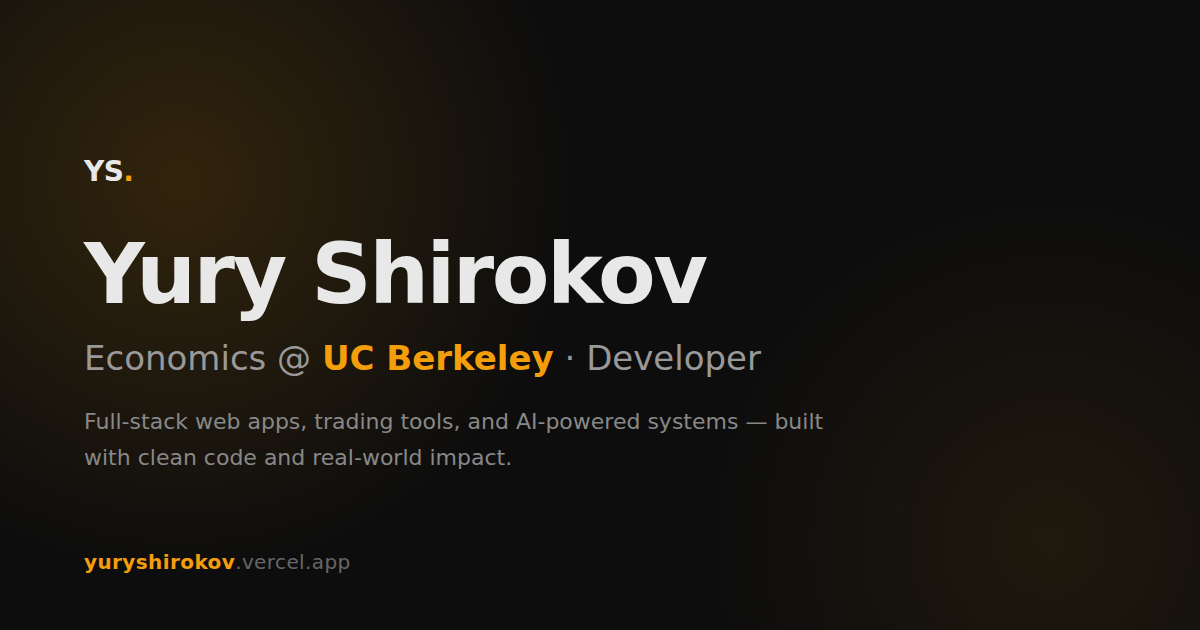
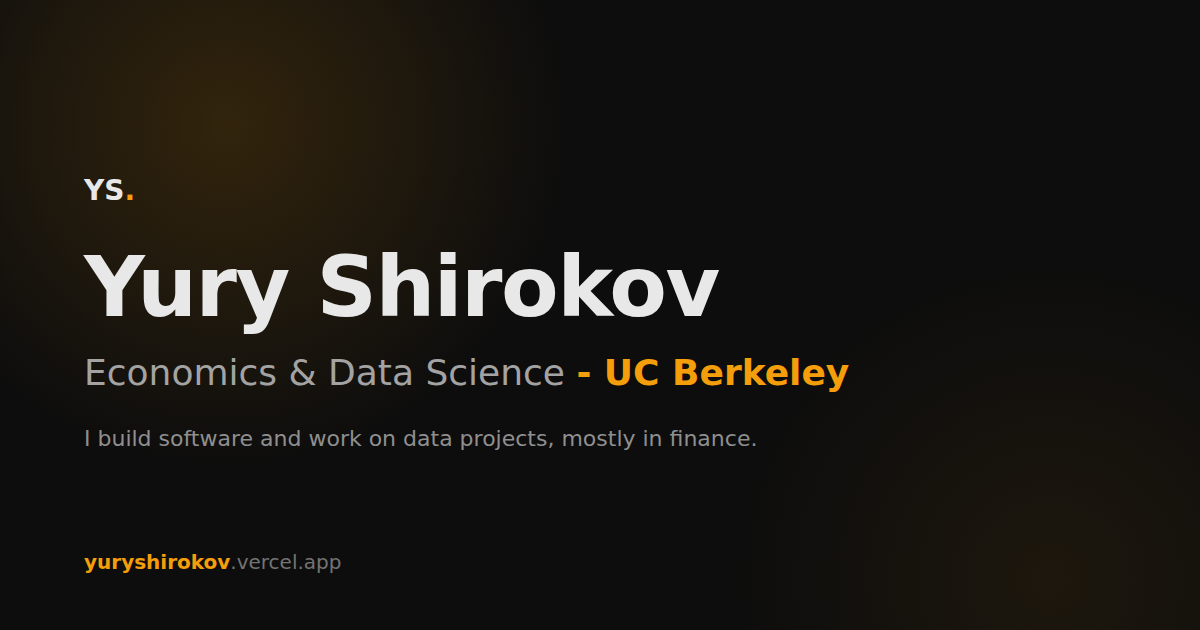
Fix hero, contact, and asset polish; share copy with prerender (#18)
- Move hero, case study, project, and skills copy into src/content.js.
  The components and the prerender script now import the same data, so
  the crawlable HTML can no longer drift (it was missing 9 skills).
  scripts/prerender.cjs becomes an ES module (prerender.js) and
  scripts/site-content.cjs is removed.
- Keep "- UC Berkeley" together in the hero subtitle so it no longer
  breaks between "UC" and "Berkeley" or leaves a dangling dash.
- Show the full PerfinLab screenshot in the hero instead of cropping
  its text mid-sentence; reserve its space with width/height attributes.
- Fix the contact form error sentence.
- Clarify that Vanguard RL connects to a server for the video game Rust.
- Shrink perfinlab-logo.png from 512px/254 KB to 64px/5.8 KB and cut
  out the baked-in checkerboard corners.
- Regenerate og-image.png with the current hero copy.
- Log navbar resume clicks as resume_click {location: navbar} to match
  the hero button.
- Run CI on Node 24 to match Vercel's production builds.

Claude-Session: https://claude.ai/code/session_01Nc5LndNhUK4BERDAHT52k3

diff --git a/src/content.js b/src/content.js
@@ -1,0 +1,88 @@
+// ─────────────────────────────────────────────────────────────────────────────
+// Single source of truth for the site's main copy.
+//
+// The React components render this data, and scripts/prerender.js bakes the
+// same data into dist/index.html for crawlers and link previews. Keep this
+// file plain data (no JSX, no CSS or asset imports) so Node can import it
+// directly during the build.
+// ─────────────────────────────────────────────────────────────────────────────
+
+export const hero = {
+  title: 'Economics & Data Science',
+  school: 'UC Berkeley',
+  bio: 'I build software and work on data projects, mostly in finance.',
+}
+
+export const caseStudy = {
+  title: 'Safer portfolio edits at PerfinLab',
+  problem:
+    'Guests shared one demo portfolio, so an anonymous save could alter its sample data. Manual cash, savings, checking, and housing values could also be saved blank, zero, or negative.',
+  change:
+    'Made the guest demo read-only, required sign-in for portfolio writes, and added validation before manual values can be saved.',
+  result:
+    'Confirmed the validation in production with a synthetic QA entry. An isolated browser harness verified persistence after reload and stale-save conflict handling.',
+  tags: ['Access Control', 'Validation', 'QA'],
+}
+
+export const projects = [
+  {
+    title: 'PerfinLab',
+    logo: '/perfinlab-logo.png',
+    screenshot: '/perfinlab-screenshot.png',
+    description:
+      'Built a full-stack personal finance app that turns linked account data into cash-flow, tax, and financial-health guidance. It combines Plaid sync, 50-state tax projections, and AI-assisted analysis on a Flask/Firebase backend.',
+    tags: ['React', 'Flask', 'Firebase', 'Plaid API', 'Claude API'],
+    highlights: ['50-state tax engine', '0–100 health score', 'Live bank sync'],
+    link: 'https://perfinlab.com/',
+    repo: null,
+    privateRepo: true,
+    featured: true,
+  },
+  {
+    title: 'Vanguard RL',
+    description:
+      'Built a reinforcement-learning prototype that connects a private server for the video game Rust to a Gymnasium/PPO training loop through a versioned JSON bridge. Deterministic resets, action acknowledgments, and automated smoke tests make experiments reproducible.',
+    tags: ['Python', 'C#', 'PyTorch', 'Stable-Baselines3'],
+    highlights: ['Atomic JSON bridge', 'One-bot MVP', '13 passing tests'],
+    link: null,
+    repo: 'https://github.com/yshirokov05/rust-rl-agent',
+  },
+  {
+    title: 'Quantbot',
+    description:
+      'Built an options-first paper-trading system: deterministic indicators screen closed 3-minute candles against a 15-minute trend, then Claude reviews actionable setups and selects a liquid call or put. A FastAPI backend and React dashboard expose scans, positions, trade history, and risk controls.',
+    tags: ['Python', 'FastAPI', 'React', 'Claude API'],
+    highlights: ['Indicator-based screening', 'Claude-reviewed setups', 'Paper trading with risk limits'],
+    link: null,
+    repo: null,
+    privateRepo: true,
+  },
+  {
+    title: 'E-commerce Funnel Analytics',
+    description:
+      'Analyzed 12M+ hit-level records from the public Google Analytics sample in BigQuery, built session-level funnel and engagement metrics, and compared conversion behavior by device. The largest funnel drop-off was from product view to add-to-cart.',
+    tags: ['Python', 'BigQuery', 'SQL', 'Pandas'],
+    highlights: ['12M+ hit-level records', 'Session-level funnel', 'Device segmentation'],
+    link: null,
+    repo: 'https://github.com/yshirokov05/product-analytics-case-study',
+  },
+]
+
+export const skillCategories = [
+  {
+    name: 'Languages',
+    skills: ['Python', 'JavaScript', 'TypeScript', 'C#', 'SQL'],
+  },
+  {
+    name: 'Frontend',
+    skills: ['React', 'Vite', 'HTML/CSS', 'Responsive Design'],
+  },
+  {
+    name: 'Backend & Data',
+    skills: ['Flask', 'FastAPI', 'Node.js', 'Firebase', 'REST APIs', 'BigQuery'],
+  },
+  {
+    name: 'ML & Tools',
+    skills: ['PyTorch', 'Pandas', 'Claude API', 'Plaid API', 'Stripe', 'Docker', 'Git', 'Vercel'],
+  },
+]

diff --git a/src/components/Projects.jsx b/src/components/Projects.jsx
@@ -1,49 +1,6 @@
 import { track } from '@vercel/analytics'
+import { projects } from '../content'
 import './Projects.css'
-
-const projects = [
-  {
-    title: 'PerfinLab',
-    logo: '/perfinlab-logo.png',
-    screenshot: '/perfinlab-screenshot.png',
-    description:
-      'Built a full-stack personal finance app that turns linked account data into cash-flow, tax, and financial-health guidance. It combines Plaid sync, 50-state tax projections, and AI-assisted analysis on a Flask/Firebase backend.',
-    tags: ['React', 'Flask', 'Firebase', 'Plaid API', 'Claude API'],
-    highlights: ['50-state tax engine', '0–100 health score', 'Live bank sync'],
-    link: 'https://perfinlab.com/',
-    repo: null,
-    privateRepo: true,
-    featured: true,
-  },
-  {
-    title: 'Vanguard RL',
-    description:
-      'Built a reinforcement-learning prototype that connects a Rust game server to a Gymnasium/PPO training loop through a versioned JSON bridge. Deterministic resets, action acknowledgments, and automated smoke tests make experiments reproducible.',
-    tags: ['Python', 'C#', 'PyTorch', 'Stable-Baselines3'],
-    highlights: ['Atomic JSON bridge', 'One-bot MVP', '13 passing tests'],
-    link: null,
-    repo: 'https://github.com/yshirokov05/rust-rl-agent',
-  },
-  {
-    title: 'Quantbot',
-    description:
-      'Built an options-first paper-trading system: deterministic indicators screen closed 3-minute candles against a 15-minute trend, then Claude reviews actionable setups and selects a liquid call or put. A FastAPI backend and React dashboard expose scans, positions, trade history, and risk controls.',
-    tags: ['Python', 'FastAPI', 'React', 'Claude API'],
-    highlights: ['Indicator-based screening', 'Claude-reviewed setups', 'Paper trading with risk limits'],
-    link: null,
-    repo: null,
-    privateRepo: true,
-  },
-  {
-    title: 'E-commerce Funnel Analytics',
-    description:
-      'Analyzed 12M+ hit-level records from the public Google Analytics sample in BigQuery, built session-level funnel and engagement metrics, and compared conversion behavior by device. The largest funnel drop-off was from product view to add-to-cart.',
-    tags: ['Python', 'BigQuery', 'SQL', 'Pandas'],
-    highlights: ['12M+ hit-level records', 'Session-level funnel', 'Device segmentation'],
-    link: null,
-    repo: 'https://github.com/yshirokov05/product-analytics-case-study',
-  },
-]
 
 function ExternalIcon() {
   return (

diff --git a/scripts/prerender.js b/scripts/prerender.js
@@ -10,12 +10,19 @@
 // meaningful. React's createRoot replaces it on mount, so the live site is
 // unchanged for real visitors.
 //
+// The copy comes from src/content.js, the same data the React components
+// render, so the two can't drift apart.
+//
 // The prerender is part of the production build. If it cannot inject the
 // crawlable content, fail loudly rather than shipping a misleading green build.
 // ─────────────────────────────────────────────────────────────────────────────
 
-const fs = require('fs');
-const path = require('path');
+import fs from 'node:fs';
+import path from 'node:path';
+import { fileURLToPath } from 'node:url';
+import { hero, caseStudy, projects, skillCategories } from '../src/content.js';
+
+const __dirname = path.dirname(fileURLToPath(import.meta.url));
 
 function main() {
   const distDir = path.resolve(__dirname, '..', 'dist');
@@ -25,10 +32,8 @@ function main() {
     throw new Error('dist/index.html not found — did the Vite build run?');
   }
 
-  const content = require('./site-content.cjs');
-
   const html = fs.readFileSync(templatePath, 'utf8');
-  const body = buildBody(content);
+  const body = buildBody();
   const injected = html.replace(/(<div id=["']root["']>)\s*(<\/div>)/i, `$1${body}$2`);
 
   if (injected === html) {
@@ -47,11 +52,12 @@ function esc(s) {
     .replace(/"/g, '&quot;');
 }
 
-function buildBody({ hero, caseStudy, projects, skills }) {
+function buildBody() {
+  const skills = skillCategories.flatMap(category => category.skills);
   const parts = [];
   parts.push('<main style="max-width:720px;margin:0 auto;padding:24px;font-family:system-ui,-apple-system,Segoe UI,Roboto,sans-serif">');
   parts.push('<h1>Yury Shirokov</h1>');
-  parts.push(`<p>${esc(hero)}</p>`);
+  parts.push(`<p>${esc(`${hero.title} - ${hero.school}. ${hero.bio}`)}</p>`);
 
   parts.push('<h2>Selected case study</h2>');
   parts.push(`<p><strong>${esc(caseStudy.title)}</strong></p>`);

diff --git a/src/components/Hero.jsx b/src/components/Hero.jsx
@@ -1,4 +1,5 @@
 import { track } from '@vercel/analytics'
+import { hero } from '../content'
 import './Hero.css'
 
 export default function Hero() {
@@ -8,11 +9,9 @@ export default function Hero() {
         <div className="hero__copy">
           <h1 className="hero__name">Yury Shirokov</h1>
           <h2 className="hero__title">
-            Economics &amp; Data Science <span>- UC Berkeley</span>
+            {hero.title} <span>- {hero.school}</span>
           </h2>
-          <p className="hero__bio">
-            I build software and work on data projects, mostly in finance.
-          </p>
+          <p className="hero__bio">{hero.bio}</p>
           <div className="hero__cta">
             <a href="#projects" className="btn btn-primary">View selected work</a>
             <a
@@ -39,7 +38,12 @@ export default function Hero() {
             <span>Currently building</span>
             <span aria-hidden="true">↗</span>
           </div>
-          <img src="/perfinlab-screenshot.png" alt="PerfinLab financial dashboard" />
+          <img
+            src="/perfinlab-screenshot.png"
+            alt="PerfinLab net worth summary card"
+            width="1032"
+            height="780"
+          />
           <div className="hero__showcase-copy">
             <strong>PerfinLab</strong>
             <p>A personal finance app for tracking accounts, cash flow, and taxes.</p>

diff --git a/src/components/Skills.jsx b/src/components/Skills.jsx
@@ -1,23 +1,5 @@
+import { skillCategories } from '../content'
 import './Skills.css'
-
-const categories = [
-  {
-    name: 'Languages',
-    skills: ['Python', 'JavaScript', 'TypeScript', 'C#', 'SQL'],
-  },
-  {
-    name: 'Frontend',
-    skills: ['React', 'Vite', 'HTML/CSS', 'Responsive Design'],
-  },
-  {
-    name: 'Backend & Data',
-    skills: ['Flask', 'FastAPI', 'Node.js', 'Firebase', 'REST APIs', 'BigQuery'],
-  },
-  {
-    name: 'ML & Tools',
-    skills: ['PyTorch', 'Pandas', 'Claude API', 'Plaid API', 'Stripe', 'Docker', 'Git', 'Vercel'],
-  },
-]
 
 export default function Skills() {
   return (
@@ -27,7 +9,7 @@ export default function Skills() {
         <h2 className="section-title">Skills</h2>
 
         <div className="skills__grid">
-          {categories.map(cat => (
+          {skillCategories.map(cat => (
             <div key={cat.name} className="skills__category">
               <h3 className="skills__category-name">{cat.name}</h3>
               <ul className="skills__list">

diff --git a/src/components/Hero.css b/src/components/Hero.css
@@ -33,7 +33,8 @@
   color: var(--text-muted);
   margin-bottom: 24px;
 }
-.hero__title span { color: var(--accent); font-weight: 600; }
+/* Keep "- UC Berkeley" together so the line never breaks inside it. */
+.hero__title span { color: var(--accent); font-weight: 600; white-space: nowrap; }
 
 .hero__bio {
   max-width: 520px;
@@ -65,7 +66,8 @@
   letter-spacing: 0.08em;
   text-transform: uppercase;
 }
-.hero__showcase > img { width: 100%; aspect-ratio: 16 / 9; object-fit: cover; object-position: top; }
+/* Show the whole screenshot; the img width/height attributes reserve its space. */
+.hero__showcase > img { width: 100%; height: auto; }
 .hero__showcase-copy { padding: 20px; }
 .hero__showcase-copy strong { display: block; margin-bottom: 4px; font-size: 1.25rem; }
 .hero__showcase-copy p { color: var(--text-muted); font-size: 0.92rem; }

diff --git a/src/components/Updates.jsx b/src/components/Updates.jsx
@@ -1,15 +1,5 @@
+import { caseStudy } from '../content'
 import './Updates.css'
-
-const caseStudy = {
-  title: 'Safer portfolio edits at PerfinLab',
-  problem:
-    'Guests shared one demo portfolio, so an anonymous save could alter its sample data. Manual cash, savings, checking, and housing values could also be saved blank, zero, or negative.',
-  change:
-    'Made the guest demo read-only, required sign-in for portfolio writes, and added validation before manual values can be saved.',
-  result:
-    'Confirmed the validation in production with a synthetic QA entry. An isolated browser harness verified persistence after reload and stale-save conflict handling.',
-  tags: ['Access Control', 'Validation', 'QA'],
-}
 
 export default function Updates() {
   return (

diff --git a/src/components/Contact.jsx b/src/components/Contact.jsx
@@ -115,8 +115,9 @@ export default function Contact() {
                 </div>
                 {status === 'error' && (
                   <p className="contact__error" id="contact-error" role="alert">
-                    Something went wrong sending your message. Please email me directly at{' '}
-                    <a href={getMailtoHref(form)}>open a prefilled email draft</a>.
+                    Something went wrong sending your message. Please{' '}
+                    <a href={getMailtoHref(form)}>email me directly</a> instead; your message
+                    will be filled in for you.
                   </p>
                 )}
                 <button

diff --git a/src/components/Navbar.jsx b/src/components/Navbar.jsx
@@ -44,7 +44,7 @@ export default function Navbar() {
           className="navbar__resume"
           target="_blank"
           rel="noreferrer"
-          onClick={() => track('resume_download')}
+          onClick={() => track('resume_click', { location: 'navbar' })}
         >
           Resume
         </a>

diff --git a/.claude/skills/ship-and-deploy/SKILL.md b/.claude/skills/ship-and-deploy/SKILL.md
@@ -28,10 +28,13 @@ after a merge, it's simplest to just use a new branch name.
 
 ## 2. Implement
 
-- Keep `scripts/site-content.cjs` in sync with `Projects.jsx` / `Skills.jsx`
-  — the prerender script duplicates that content because the build step
-  can't execute JSX, not because it's a second source of truth to grow
-  independently.
+- Edit the hero, case study, projects, and skills copy in `src/content.js`.
+  The components render it and `scripts/prerender.js` bakes the same data
+  into the crawlable HTML, so there is only one place to change. Keep that
+  file plain data (no JSX or asset imports) so Node can import it at build
+  time.
+- If the hero copy changes, regenerate `public/og-image.png` (the 1200×630
+  link preview) so shared links don't show stale text.
 - **Verify factual claims before writing them** — check the actual source
   repo (its CLAUDE.md / README / code) for whatever project or fact you're
   describing; don't restate old copy. This has caught real staleness twice:
@@ -44,8 +47,9 @@ after a merge, it's simplest to just use a new branch name.
 npm run build
 ```
 
-Must succeed (`vite build && node scripts/prerender.cjs`). This is the only
-gate — there is no test suite to run.
+Must succeed (`vite build && node scripts/prerender.js`). `npm run check`
+(what CI runs) also verifies the prerendered content and public assets.
+There is no test suite beyond that.
 
 ## 4. Commit, push, PR
 

diff --git a/README.md b/README.md
@@ -41,6 +41,7 @@ This builds the site, prerenders meaningful page content into `dist/index.html`,
 ## Project structure
 
 ```text
+src/content.js        Hero, case study, project, and skills copy (single source)
 src/components/       Page sections and section-level styles
 scripts/              Prerendering and production verification
 public/               Resume, project media, favicon, and social preview
